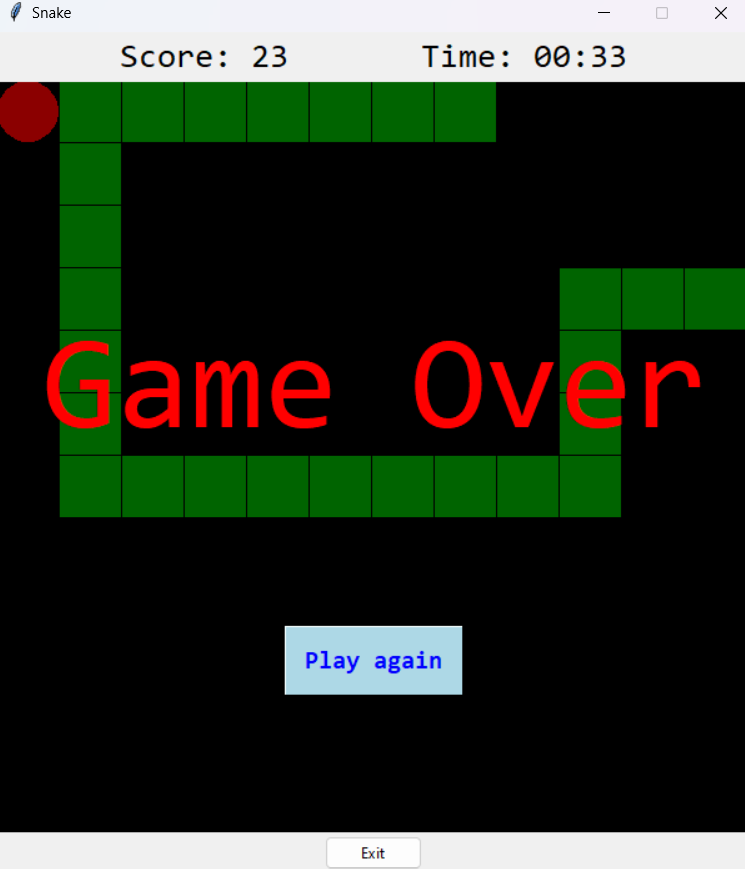
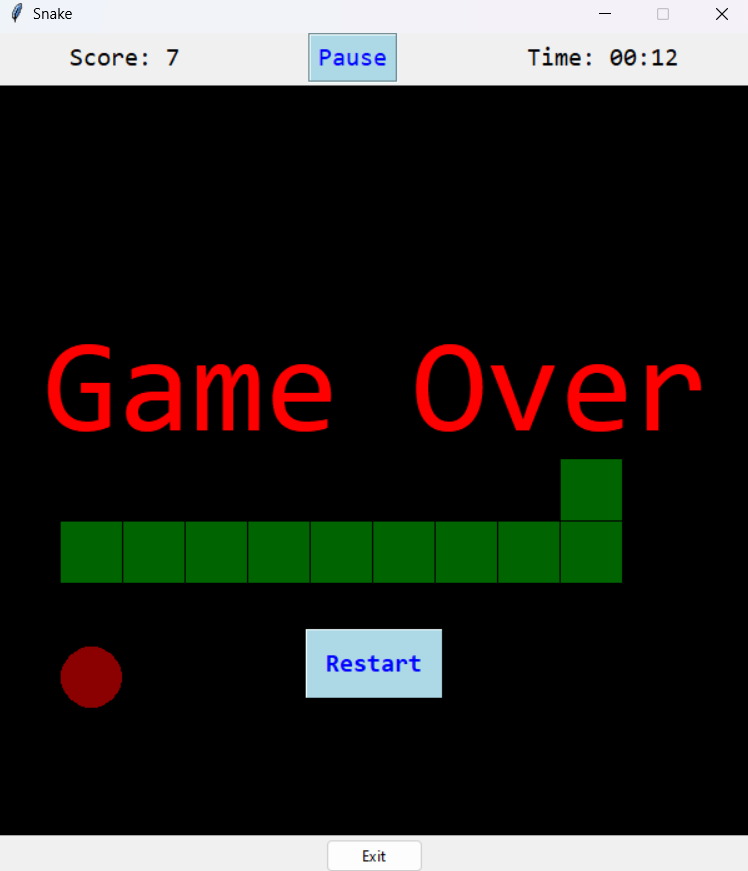
added pause/resume trigger feature

diff --git a/main.py b/main.py
@@ -7,7 +7,7 @@ from tkinter.constants import *
 
 class Game():
     def __init__(self):
-        # --- initialize elements. ---
+        # ------ initialize Constant elements. ------
         # screen dimension
         self.GAME_WIDTH = 600
         self.GAME_HEIGHT = 600
@@ -20,7 +20,7 @@ class Game():
         self.SPACE_SIZE = 50
         self.BODY_SIZE = 3
 
-        # set up the all screen
+        # --- set up the all screen ---
         self.window = tk.Tk()
         self.window.title('Snake')
         self.window.resizable(False, False)
@@ -29,29 +29,38 @@ class Game():
         self.top_frame = ttk.Frame(self.window)
         self.top_frame.pack(fill='x') 
         self.top_frame.grid_columnconfigure(0, weight=1)
-        self.top_frame.grid_columnconfigure(1, weight=1)
+        self.top_frame.grid_columnconfigure(1, weight=0)
+        self.top_frame.grid_columnconfigure(2, weight=1)
 
-        # Initialize score label
+        # --- Initialize score label ---
         self.score_label = tk.Label(self.top_frame, text=f"Score: 0", font=('consolas', 15))
         self.score_label.grid(row=0, column=0, sticky='e', padx=50)  # Align to the left with padding
 
-        # Initialize time label
+        # --- Initialize time label ---
         self.time_label = tk.Label(self.top_frame, text=f"Time: 00:00", font=('consolas', 15))
-        self.time_label.grid(row=0, column=1, sticky='w', padx=50)  # Align to the right with padding
+        self.time_label.grid(row=0, column=2, sticky='w', padx=50)  # Align to the right with padding
 
+        self.is_game_paused = False
 
+        # --- pause button ---
+        self.pause_button = tk.Button(self.top_frame, text=f"Pause", font=('consolas', 15),
+                                    command=self.tooggle_pause,
+                                    bg="lightblue",
+                                    fg="blue",
+                                    relief="groove")
 
-        # screen game set up
+        # --- screen game set up ---
         self.screen_game = Canvas(self.window, bg=self.BACKGROUND_COLOR, width=self.GAME_WIDTH, height=self.GAME_HEIGHT)
         self.screen_game.pack()
         
-        # create a start button to click, in the window before the game starts
+        # --- create a start button for the game to start ---
         self.start_button = self.create_button("Start", self.start_game)
         self.start_button.place(relx=0.5, rely=0.5, anchor=CENTER)
 
-        # --- creating a restart button when game over---------------
+        # --- creating a restart button when game over ---
         self.restart_button = self.create_button("Restart", self.restart_game)
 
+        # --- creating a exit button to quit the game ---  
         exit_button = ttk.Button(self.window,
                                 text='Exit',
                                 command=lambda: self.window.quit()
@@ -72,7 +81,7 @@ class Game():
                         overrelief=GROOVE,
                         activebackground="lightgray",
                         )
-
+    
 
     def center_window(self):
         self.window.update()
@@ -88,6 +97,18 @@ class Game():
         center_y = int((screen_height/2) - (window_height/2))
         self.window.geometry(f"{window_width}x{window_height}+{center_x}+{center_y}")
 
+
+    def tooggle_pause(self):
+        if not self.is_game_paused:
+            self.is_game_paused = True
+            self.pause_button.config(text="Resume")
+            self.pause_time = time.time()
+        else:
+            self.is_game_paused = False
+            self.pause_button.config(text="Pause")
+            self.start_time += time.time() - self.pause_time
+            self.next_turn()  
+    
 
     def bind_keys(self):
         # set movement direction event
@@ -114,14 +135,19 @@ class Game():
 
 
     def start_game(self):
+        # self.is_game_started = True
         self.start_button.place_forget()  # Hide the start button
         self.initialise_game()
+
+        # initialize the pause button on screen after the game starts.
+        self.pause_button.grid(row=0, column=1, padx=50)
+
         self.next_turn()
 
 
     def timer(self):
         '''Update the timer display, stops when game is over.'''
-        if not self.is_game_over:
+        if not self.is_game_over and not self.is_game_paused:
             self.game_time = time.time() - self.start_time
             formatted_time = time.strftime("%M:%S", time.gmtime(self.game_time))
             self.time_label.config(text=f"Time: {formatted_time}")
@@ -129,6 +155,10 @@ class Game():
 
     
     def next_turn(self):
+
+        if self.is_game_paused:
+            return
+        
         x, y = self.snake.coordinates[0]
 
         if self.direction == "up":
@@ -142,6 +172,7 @@ class Game():
 
         self.snake.coordinates.insert(0, [x, y])
 
+        # if collision it stops the game, otherwise goes to next turn.
         if self.check_collision():
             self.game_over()
 
@@ -161,7 +192,6 @@ class Game():
                 self.screen_game.delete(self.snake.squares[-1])
                 del self.snake.squares[-1]
 
-            # if collision it stops the game, otherwise goes to next turn.
             self.window.after(self.SPEED, self.next_turn)
             self.timer()
 

diff --git a/README.md b/README.md
@@ -2,8 +2,10 @@
 
 Building the classic snake game using (and learning Tkinter module).
 
-- in construction
+- The game is as usual the snake grows when eating an apple. and is done so  with checking and udating coordinates of the block representations for the objects Snake and Food.
 
+- Timer and score are set up. and reset for new game run.
+- As a restart button implementation for continous running of the program without having to quit and re run.
 
 <img src="./screenshots/1.png" alt="some sample photos" width=400>
 <img src="./screenshots/2.png" alt="some sample photos" width=400>
